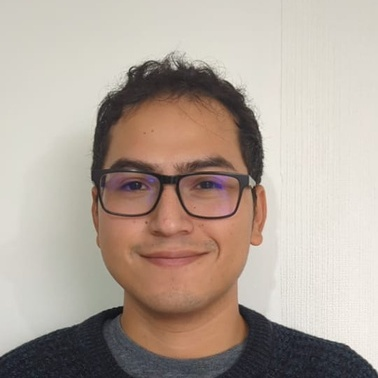
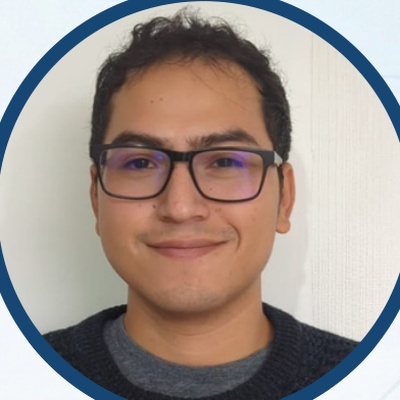
feat: add 5th co-founder Pablo Alarcon and refine copy with zero-cloud and human precursor value proposition

diff --git a/script.js b/script.js
@@ -17,7 +17,7 @@ const translations = {
     hero_badge: "Fondo Semilla CORFO Adjudicado • Apoyo UdeC",
     hero_title_1: "Los riesgos se mueven rápido.",
     hero_title_2: "Nosotros los vemos venir.",
-    hero_sub: "Plataforma de vigilancia territorial autónoma con drones VTOL e inferencia Edge AI a bordo. Cerramos la ventana de vulnerabilidad nocturna de 10 horas donde la aviación tripulada no puede operar, reduciendo el costo de patrullaje de <strong>US$2.500 a US$250 por hora</strong>.",
+    hero_sub: "Plataforma de vigilancia territorial autónoma con drones VTOL e inferencia Edge AI a bordo. Cerramos la brecha nocturna de 10 horas detectando actividad humana no autorizada —precursor del 99,7% de los incendios forestales— antes de que se inicien los focos, con 90% menor costo que la aviación tripulada.",
     hero_cta_primary: "Postular a Piloto Operativo",
     hero_cta_secondary: "Ver Capacidades del Sistema",
 
@@ -27,7 +27,7 @@ const translations = {
     m2_title: "Ventana Crítica Nocturna",
     m2_sub: "Vigilancia autónoma en oscuridad total",
     m3_title: "Falsas Alarmas",
-    m3_sub: "Fusión termográfica y óptica a bordo",
+    m3_sub: "Verificación multi-frame a bordo (cero fatiga de alerta)",
     m4_title: "Modelo Intelligence as a Service",
     m4_sub: "Suscripción por cobertura territorial",
 
@@ -44,7 +44,7 @@ const translations = {
     p3_head: "Brigadistas en Terreno",
     p3_desc: "Exposición a peligro extremo ingresando de noche a ciegas en el bosque sin verificación aérea previa del terreno.",
     p3_tag: "Riesgo vital innecesario",
-    quote_text: "Satélites tienen alta latencia orbital; torres fijas tienen puntos ciegos topográficos; drones manuales requieren cuadrilla en terreno. Ninguno responde a tiempo la pregunta decisiva: <em>¿Hay una amenaza humana o térmica en este instante y coordenadas exactas?</em>",
+    quote_text: "Satélites tienen latencia orbital; torres fijas tienen puntos ciegos topográficos; drones manuales exigen cuadrillas nocturnas en riesgo. Ninguno responde a tiempo la pregunta decisiva: <em>¿Hay una amenaza humana o térmica en este instante y coordenadas exactas?</em>",
 
     // Technology
     tech_tag: "Capacidades Operativas",
@@ -52,10 +52,10 @@ const translations = {
     tech_sub: "Arquitectura autónoma de alta disponibilidad. La aeronave VTOL detecta, clasifica y georreferencia en el borde sin requerir enlace continuo a internet ni servidores en tierra.",
     t1_title: "Visión Térmica Bi-Espectral",
     t1_desc: "Detección infrarroja radiométrica y óptica de alta definición en gimbal estabilizado. Identificación de amenazas térmicas y presencia en oscuridad total con menos de 5% de falsas alarmas.",
-    t2_title: "Inteligencia Artificial Embarcada",
-    t2_desc: "Procesamiento de visión computacional a bordo en el borde (Edge AI). Análisis de video y clasificación autónoma en tiempo real sin depender de conectividad externa ni saturar enlaces.",
-    t3_title: "Telemetría Táctica para Zonas Remotas",
-    t3_desc: "Emisión de alertas estructuradas en menos de 5 segundos mediante radioenlaces de largo alcance, garantizando operatividad táctica en quebradas y predios sin cobertura celular.",
+    t2_title: "Inteligencia Artificial Embarcada (Zero-Cloud)",
+    t2_desc: "Inferencia de visión computacional 100% local a bordo. La aeronave detecta, clasifica y valida amenazas en tiempo real sin requerir internet, nube externa ni conectividad celular.",
+    t3_title: "Telemetría Táctica en Zonas Desconectadas",
+    t3_desc: "Emisión de fichas de alerta y coordenadas exactas en menos de 5 segundos vía radioenlace táctico de largo alcance, garantizando operatividad en quebradas y predios remotos.",
     t4_title: "Aeronave VTOL de Rango Extendido",
     t4_desc: "Despegue y aterrizaje vertical independiente de pista en cualquier relieve. Cobertura territorial de cientos de hectáreas por patrullaje con alta resistencia a condiciones de viento.",
     t5_title: "Georreferenciación Quirúrgica",
@@ -74,9 +74,9 @@ const translations = {
     ph3_title: "Vigilancia Nocturna Activa",
     ph3_desc: "Patrullaje autónomo programado en las horas de mayor vulnerabilidad con telemetría en vivo y soporte al C2 del cliente.",
     ph4_title: "Auditoría & Retorno Operativo",
-    ph4_desc: "Informe técnico con tiempos de detección, falsas alarmas filtradas, horas de vuelo ahorradas y propuesta de escalamiento IaaS.",
+    ph4_desc: "Informe técnico con tiempos de respuesta, falsas alarmas filtradas, horas de vuelo ahorradas e integración auditada con el centro de operaciones (C2) del cliente.",
     callout_title: "Convocatoria de Validación 2026",
-    callout_desc: "Cupos de vuelo limitados por temporada de incendios. Evaluación de factibilidad territorial sin costo para predios forestales e industriales.",
+    callout_desc: "Cupos limitados por temporada de incendios en la Macrozona Centro-Sur. Evaluación de factibilidad territorial e interoperabilidad C2 sin costo para predios forestales e industriales.",
     callout_cta: "Solicitar Factibilidad de Piloto",
 
     // Alliances & R&D
@@ -97,11 +97,12 @@ const translations = {
     // Team
     team_tag: "Equipo Fundador",
     team_title: "Ingeniería Aeroespacial & Operaciones Tácticas",
-    team_sub: "Un equipo multidisciplinario que une diseño aeronáutico, visión computacional, experiencia directa como bombero operativo y certificación civil DGAC.",
-    bio_tomas: "Ingeniería Aeroespacial • Visión Computacional, Machine Learning, Ingeniería de Sistemas y CAD/CAM.",
-    bio_carlos: "Ingeniería Aeroespacial • Bombero Operativo. CFD, análisis aerodinámico y arquitectura táctica.",
-    bio_richard: "Ingeniería Aeroespacial • Diseño RPAS, certificación aeronáutica y regulaciones operacionales DGAC.",
-    bio_ananda: "Ingeniería Aeroespacial • Integración de sistemas, ensayos de vuelo RPAS, CAD/CAM y CFD.",
+    team_sub: "5 ingenieros civiles aeroespaciales de la Universidad de Concepción, combinando diseño aeronáutico, visión computacional, experiencia bomberil en primera línea y certificación civil.",
+    bio_tomas: "Ingeniero Civil Aeroespacial • Visión Computacional, Machine Learning, CAD/CAM e Ingeniería de Sistemas C4ISR.",
+    bio_carlos: "Bombero Operativo • Ingeniero Civil Aeroespacial. Análisis CFD, logística operacional y arquitectura de interfaz táctica.",
+    bio_ananda: "Ingeniera Civil Aeroespacial • Integración y ensayos de vuelo RPAS, CAD, análisis estructural (FEA) y CFD.",
+    bio_richard: "Ingeniero Civil Aeroespacial • Ingeniería de sistemas, aseguramiento normativo, control de calidad y certificación aeronáutica.",
+    bio_pablo: "Ingeniero Civil Aeroespacial • Arquitectura de sistemas, lógica e integración de flujo de datos, validación y verificación.",
     bio_advisor: "PhD Space Systems Engineering and Management. Asesor senior en arquitectura de sistemas espaciales y escalamiento aeroespacial.",
 
     // CTA
@@ -130,7 +131,7 @@ const translations = {
     hero_badge: "CORFO Seed Grant Awarded • Backed by UdeC",
     hero_title_1: "Risks move fast.",
     hero_title_2: "We see them coming.",
-    hero_sub: "Autonomous territorial surveillance platform powered by VTOL uncrewed aircraft and onboard Edge AI. We close the critical 10-hour nighttime vulnerability window where manned aviation cannot fly, slashing aerial patrol costs from <strong>US$2,500 to US$250 per flight hour</strong>.",
+    hero_sub: "Autonomous territorial surveillance platform powered by VTOL uncrewed aircraft and onboard Edge AI. We close the critical 10-hour nighttime window by detecting unauthorized human activity—precursor to 99.7% of wildfires—before ignition occurs, slashing aerial patrol costs by 90%.",
     hero_cta_primary: "Apply for Operational Pilot",
     hero_cta_secondary: "Explore Capabilities",
 
@@ -140,7 +141,7 @@ const translations = {
     m2_title: "Critical Night Window",
     m2_sub: "Autonomous patrol in pitch-black darkness",
     m3_title: "False Alarm Rate",
-    m3_sub: "Onboard thermal and optical fusion",
+    m3_sub: "Onboard multi-frame verification (zero alert fatigue)",
     m4_title: "Intelligence as a Service",
     m4_sub: "Territorial coverage subscription, zero CAPEX",
 
@@ -157,7 +158,7 @@ const translations = {
     p3_head: "Ground Firefighters",
     p3_desc: "Extreme physical hazard entering rugged mountainous terrain in darkness without prior aerial reconnaissance.",
     p3_tag: "Avoidable human risk",
-    quote_text: "Satellites have orbital latency; fixed watchtowers suffer topographic blind spots; manual drones require ground crews. None answers the decisive question in time: <em>Is there a verified human or thermal threat right now at exact coordinates?</em>",
+    quote_text: "Satellites suffer orbital latency; fixed watchtowers face topographic blind spots; manual drones place nocturnal ground crews at risk. None answers the decisive question in time: <em>Is there an unauthorized human presence or thermal anomaly right now at exact coordinates?</em>",
 
     // Technology
     tech_tag: "Operational Capabilities",
@@ -165,10 +166,10 @@ const translations = {
     tech_sub: "High-availability autonomous architecture. The VTOL airframe detects, classifies, and geolocalizes at the edge without requiring persistent internet or ground servers.",
     t1_title: "Bi-Spectral Thermal Vision",
     t1_desc: "Radiometric infrared and high-definition optical sensing on a stabilized gimbal. Pinpoint threat identification and human presence verification in complete darkness with under 5% false alarm rates.",
-    t2_title: "Onboard Edge Artificial Intelligence",
-    t2_desc: "Direct onboard computer vision inference. Real-time video processing and autonomous threat verification without saturating telemetry bandwidth or relying on ground servers.",
-    t3_title: "Tactical Telemetry for Remote Dark Zones",
-    t3_desc: "Ultra-fast structured tactical alerts dispatched in under 5 seconds over long-range radio links, operating reliably in canyons and acreage without cellular 4G/5G coverage.",
+    t2_title: "Onboard Edge AI (Zero-Cloud)",
+    t2_desc: "100% local onboard computer vision inference. The aircraft detects, classifies, and verifies threats in real time without requiring internet, cloud servers, or cellular connectivity.",
+    t3_title: "Tactical Telemetry in Dark Zones",
+    t3_desc: "Transmission of structured alert packages and exact coordinates in under 5 seconds over long-range tactical radio links, fully operational in canyons and remote terrain.",
     t4_title: "Extended-Range Autonomous VTOL Airframe",
     t4_desc: "Runway-independent vertical takeoff and landing across any terrain. Continuous tactical surveillance covering hundreds of hectares per mission with high wind resistance.",
     t5_title: "Real-Time Surgical Geolocalization",
@@ -187,9 +188,9 @@ const translations = {
     ph3_title: "Active Nighttime Surveillance",
     ph3_desc: "Scheduled autonomous patrols throughout hours of maximum vulnerability with live structured telemetry and C2 integration.",
     ph4_title: "Audit & Operational ROI",
-    ph4_desc: "Comprehensive engineering report: detection latency, false alarm reduction, manned flight hours saved, and IaaS scale-up roadmap.",
+    ph4_desc: "Technical evaluation report detailing response latency, filtered false alarms, flight hours saved, and audited integration with the client's existing operations center (C2).",
     callout_title: "2026 Validation Cohort Applications",
-    callout_desc: "Limited operational flight slots available per fire season. Free territorial feasibility evaluation for industrial and forestry holdings.",
+    callout_desc: "Limited operational flight slots available per fire season in South-Central Chile. Free territorial feasibility and C2 interoperability assessment for forestry and industrial holdings.",
     callout_cta: "Request Pilot Feasibility Assessment",
 
     // Alliances & R&D
@@ -210,11 +211,12 @@ const translations = {
     // Team
     team_tag: "Founding Team",
     team_title: "Aerospace Engineering & Tactical Operations",
-    team_sub: "A multidisciplinary team combining aeronautical design, computer vision, operational firefighting experience, and DGAC civil certification.",
-    bio_tomas: "Aerospace Engineering • Computer Vision, Machine Learning, Systems Engineering, and CAD/CAM.",
-    bio_carlos: "Aerospace Engineering • Operational Firefighter. CFD, aerodynamic analysis, and tactical mission architecture.",
-    bio_richard: "Aerospace Engineering • RPAS design, airworthiness certification, and DGAC civil operational regulations.",
-    bio_ananda: "Aerospace Engineering • Systems integration, RPAS flight testing, CAD/CAM, and CFD.",
+    team_sub: "5 aerospace engineers from Universidad de Concepción, combining aeronautical design, computer vision, frontline firefighting experience, and civil aviation certification.",
+    bio_tomas: "Aerospace Engineer • Computer Vision, Machine Learning, CAD/CAM, and C4ISR Systems Engineering.",
+    bio_carlos: "Active Firefighter • Aerospace Engineer. CFD analysis, operational logistics, and tactical interface architecture.",
+    bio_ananda: "Aerospace Engineer • RPAS integration & flight testing, CAD, FEA structural analysis, and CFD.",
+    bio_richard: "Aerospace Engineer • Systems engineering, regulatory compliance, quality control, and aeronautical certification.",
+    bio_pablo: "Aerospace Engineer • Systems architecture, data flow logic & integration, validation and verification.",
     bio_advisor: "PhD Space Systems Engineering and Management. Senior advisor on space mission architectures and deep-tech scaling.",
 
     // CTA

diff --git a/index.html b/index.html
@@ -77,7 +77,7 @@
         </h1>
 
         <p class="hero-subtitle" data-i18n="hero_sub">
-          Plataforma de vigilancia territorial autónoma con drones VTOL e inferencia Edge AI a bordo. Cerramos la ventana de vulnerabilidad nocturna de 10 horas donde la aviación tripulada no puede operar, reduciendo el costo de patrullaje de <strong>US$2.500 a US$250 por hora</strong>.
+          Plataforma de vigilancia territorial autónoma con drones VTOL e inferencia Edge AI a bordo. Cerramos la brecha nocturna de 10 horas detectando actividad humana no autorizada —precursor del 99,7% de los incendios forestales— antes de que se inicien los focos, con 90% menor costo que la aviación tripulada.
         </p>
 
         <div class="hero-actions">
@@ -105,7 +105,7 @@
           <div class="metric-card glass-panel">
             <div class="metric-value">&lt; 5%</div>
             <div class="metric-title" data-i18n="m3_title">Falsas Alarmas</div>
-            <div class="metric-sub" data-i18n="m3_sub">Fusión termográfica y óptica a bordo</div>
+            <div class="metric-sub" data-i18n="m3_sub">Verificación multi-frame a bordo (cero fatiga de alerta)</div>
           </div>
           <div class="metric-card glass-panel">
             <div class="metric-value">0 CAPEX</div>
@@ -160,7 +160,7 @@
         <div class="quote-strip glass-panel">
           <span class="quote-symbol">“</span>
           <p class="quote-text" data-i18n="quote_text">
-            Satélites tienen alta latencia orbital; torres fijas tienen puntos ciegos topográficos; drones manuales requieren cuadrilla en terreno. Ninguno responde a tiempo la pregunta decisiva: <em>¿Hay una amenaza humana o térmica en este instante y coordenadas exactas?</em>
+            Satélites tienen latencia orbital; torres fijas tienen puntos ciegos topográficos; drones manuales exigen cuadrillas nocturnas en riesgo. Ninguno responde a tiempo la pregunta decisiva: <em>¿Hay una amenaza humana o térmica en este instante y coordenadas exactas?</em>
           </p>
         </div>
       </div>
@@ -201,8 +201,8 @@
                 <line x1="1" y1="14" x2="4" y2="14"></line>
               </svg>
             </div>
-            <h3 class="tech-title" data-i18n="t2_title">Inteligencia Artificial Embarcada</h3>
-            <p class="tech-desc" data-i18n="t2_desc">Procesamiento de visión computacional a bordo en el borde (Edge AI). Análisis de video y clasificación autónoma en tiempo real sin depender de conectividad externa ni saturar enlaces.</p>
+            <h3 class="tech-title" data-i18n="t2_title">Inteligencia Artificial Embarcada (Zero-Cloud)</h3>
+            <p class="tech-desc" data-i18n="t2_desc">Inferencia de visión computacional 100% local a bordo. La aeronave detecta, clasifica y valida amenazas en tiempo real sin requerir internet, nube externa ni conectividad celular.</p>
           </div>
 
           <div class="tech-card glass-panel">
@@ -214,8 +214,8 @@
                 <path d="M12 14v7"></path>
               </svg>
             </div>
-            <h3 class="tech-title" data-i18n="t3_title">Telemetría Táctica para Zonas Remotas</h3>
-            <p class="tech-desc" data-i18n="t3_desc">Emisión de alertas estructuradas en menos de 5 segundos mediante radioenlaces de largo alcance, garantizando operatividad táctica en quebradas y predios sin cobertura celular.</p>
+            <h3 class="tech-title" data-i18n="t3_title">Telemetría Táctica en Zonas Desconectadas</h3>
+            <p class="tech-desc" data-i18n="t3_desc">Emisión de fichas de alerta y coordenadas exactas en menos de 5 segundos vía radioenlace táctico de largo alcance, garantizando operatividad en quebradas y predios remotos.</p>
           </div>
 
           <div class="tech-card glass-panel">
@@ -301,7 +301,7 @@
             <div class="phase-number-badge">04</div>
             <div class="phase-time">Cierre</div>
             <h3 class="phase-title" data-i18n="ph4_title">Auditoría & Retorno Operativo</h3>
-            <p class="phase-desc" data-i18n="ph4_desc">Informe técnico con tiempos de detección, falsas alarmas filtradas, horas de vuelo ahorradas y propuesta de escalamiento IaaS.</p>
+            <p class="phase-desc" data-i18n="ph4_desc">Informe técnico con tiempos de respuesta, falsas alarmas filtradas, horas de vuelo ahorradas e integración auditada con el centro de operaciones (C2) del cliente.</p>
           </div>
         </div>
 
@@ -309,7 +309,7 @@
         <div class="callout-box glass-panel">
           <div class="callout-info">
             <h3 class="callout-title" data-i18n="callout_title">Convocatoria de Validación 2026</h3>
-            <p class="callout-desc" data-i18n="callout_desc">Cupos de vuelo limitados por temporada de incendios. Evaluación de factibilidad territorial sin costo para predios forestales e industriales.</p>
+            <p class="callout-desc" data-i18n="callout_desc">Cupos limitados por temporada de incendios en la Macrozona Centro-Sur. Evaluación de factibilidad territorial e interoperabilidad C2 sin costo para predios forestales e industriales.</p>
           </div>
           <a href="#contacto" class="btn-primary" data-i18n="callout_cta">Solicitar Factibilidad de Piloto</a>
         </div>
@@ -377,7 +377,7 @@
           <span class="section-tag" data-i18n="team_tag">Equipo Fundador</span>
           <h2 class="section-title" data-i18n="team_title">Ingeniería Aeroespacial & Operaciones Tácticas</h2>
           <p class="section-subtitle" data-i18n="team_sub">
-            Un equipo multidisciplinario que une diseño aeronáutico, visión computacional, experiencia directa como bombero operativo y certificación civil DGAC.
+            5 ingenieros civiles aeroespaciales de la Universidad de Concepción, combinando diseño aeronáutico, visión computacional, experiencia bomberil en primera línea y certificación civil.
           </p>
         </div>
 
@@ -385,41 +385,51 @@
           <!-- Tomás Medina -->
           <div class="founder-card glass-panel">
             <div class="founder-avatar-circle">
-              <img src="assets/img/team/tomas_medina.jpg" alt="Tomás Medina" class="avatar-photo" loading="lazy">
+              <img src="assets/img/team/tomas_portrait.jpg" alt="Tomás Medina" class="avatar-photo" loading="lazy">
             </div>
             <h3 class="founder-name">Tomás Medina</h3>
             <span class="founder-role">CEO & Co-founder</span>
-            <p class="founder-bio" data-i18n="bio_tomas">Ingeniería Aeroespacial • Visión Computacional, Machine Learning, Ingeniería de Sistemas y CAD/CAM.</p>
+            <p class="founder-bio" data-i18n="bio_tomas">Ingeniero Civil Aeroespacial • Visión Computacional, Machine Learning, CAD/CAM e Ingeniería de Sistemas C4ISR.</p>
           </div>
 
           <!-- Carlos Gutiérrez -->
           <div class="founder-card glass-panel">
             <div class="founder-avatar-circle">
-              <img src="assets/img/team/carlos_gutierrez.jpg" alt="Carlos Gutiérrez" class="avatar-photo" loading="lazy">
+              <img src="assets/img/team/carlos_portrait.jpg" alt="Carlos Gutiérrez" class="avatar-photo" loading="lazy">
             </div>
             <h3 class="founder-name">Carlos Gutiérrez</h3>
             <span class="founder-role">Co-founder</span>
-            <p class="founder-bio" data-i18n="bio_carlos">Ingeniería Aeroespacial • Bombero Operativo. CFD, análisis aerodinámico y arquitectura táctica.</p>
-          </div>
-
-          <!-- Richard Solís -->
-          <div class="founder-card glass-panel">
-            <div class="founder-avatar-circle">
-              <img src="assets/img/team/richard_solis.jpg" alt="Richard Solís" class="avatar-photo" loading="lazy">
-            </div>
-            <h3 class="founder-name">Richard Solís</h3>
-            <span class="founder-role">Co-founder</span>
-            <p class="founder-bio" data-i18n="bio_richard">Ingeniería Aeroespacial • Diseño RPAS, certificación aeronáutica y regulaciones operacionales DGAC.</p>
+            <p class="founder-bio" data-i18n="bio_carlos">Bombero Operativo • Ingeniero Civil Aeroespacial. Análisis CFD, logística operacional y arquitectura de interfaz táctica.</p>
           </div>
 
           <!-- Ananda Glaria -->
           <div class="founder-card glass-panel">
             <div class="founder-avatar-circle">
-              <img src="assets/img/team/ananda_glaria.png" alt="Ananda Glaria" class="avatar-photo" loading="lazy">
+              <img src="assets/img/team/ananda_glaria.png?v=2" alt="Ananda Glaria" class="avatar-photo" loading="lazy">
             </div>
             <h3 class="founder-name">Ananda Glaria</h3>
             <span class="founder-role">Co-founder</span>
-            <p class="founder-bio" data-i18n="bio_ananda">Ingeniería Aeroespacial • Integración de sistemas, ensayos de vuelo RPAS, CAD/CAM y CFD.</p>
+            <p class="founder-bio" data-i18n="bio_ananda">Ingeniera Civil Aeroespacial • Integración y ensayos de vuelo RPAS, CAD, análisis estructural (FEA) y CFD.</p>
+          </div>
+
+          <!-- Richard Solís -->
+          <div class="founder-card glass-panel">
+            <div class="founder-avatar-circle">
+              <img src="assets/img/team/richard_solis.jpg?v=2" alt="Richard Solís" class="avatar-photo" loading="lazy">
+            </div>
+            <h3 class="founder-name">Richard Solís</h3>
+            <span class="founder-role">Co-founder</span>
+            <p class="founder-bio" data-i18n="bio_richard">Ingeniero Civil Aeroespacial • Ingeniería de sistemas, aseguramiento normativo, control de calidad y certificación aeronáutica.</p>
+          </div>
+
+          <!-- Pablo Alarcón -->
+          <div class="founder-card glass-panel">
+            <div class="founder-avatar-circle">
+              <img src="assets/img/team/pablo_alarcon.jpg?v=2" alt="Pablo Alarcón" class="avatar-photo" loading="lazy">
+            </div>
+            <h3 class="founder-name">Pablo Alarcón</h3>
+            <span class="founder-role">Co-founder</span>
+            <p class="founder-bio" data-i18n="bio_pablo">Ingeniero Civil Aeroespacial • Arquitectura de sistemas, lógica e integración de flujo de datos, validación y verificación.</p>
           </div>
         </div>
 
@@ -427,7 +437,7 @@
         <div class="advisor-row">
           <div class="advisor-box glass-panel">
             <div class="advisor-avatar-circle">
-              <img src="assets/img/team/alejandro_lopez.png" alt="Dr. Alejandro López" class="avatar-photo" loading="lazy">
+              <img src="assets/img/team/alejandro_lopez.png?v=2" alt="Dr. Alejandro López" class="avatar-photo" loading="lazy">
             </div>
             <div class="advisor-info">
               <h3 class="founder-name">Dr. Alejandro López T.</h3>

diff --git a/styles.css b/styles.css
@@ -760,18 +760,22 @@ body {
    ========================================================================== */
 .team-cards-row {
   display: grid;
-  grid-template-columns: repeat(4, 1fr);
-  gap: 1.5rem;
+  grid-template-columns: repeat(5, 1fr);
+  gap: 1.1rem;
   margin-bottom: 2rem;
 }
 
 .founder-card {
-  padding: 2rem 1.4rem;
+  padding: 1.8rem 1.1rem;
   text-align: center;
   display: flex;
   flex-direction: column;
   align-items: center;
 }
+
+/* Precise portrait centering */
+.avatar-photo { object-position: center center; }
+
 
 .founder-name {
   font-family: var(--font-heading);
@@ -932,9 +936,9 @@ body {
 /* ==========================================================================
    Responsive Breakpoints
    ========================================================================== */
-@media (max-width: 1080px) {
+@media (max-width: 1180px) {
   .team-cards-row {
-    grid-template-columns: repeat(2, 1fr);
+    grid-template-columns: repeat(3, 1fr);
   }
   .tech-cards-grid {
     grid-template-columns: repeat(2, 1fr);
@@ -946,6 +950,13 @@ body {
     grid-template-columns: repeat(2, 1fr);
   }
 }
+
+@media (max-width: 768px) {
+  .team-cards-row {
+    grid-template-columns: repeat(2, 1fr);
+  }
+}
+
 
 @media (max-width: 860px) {
   .nav-links {
